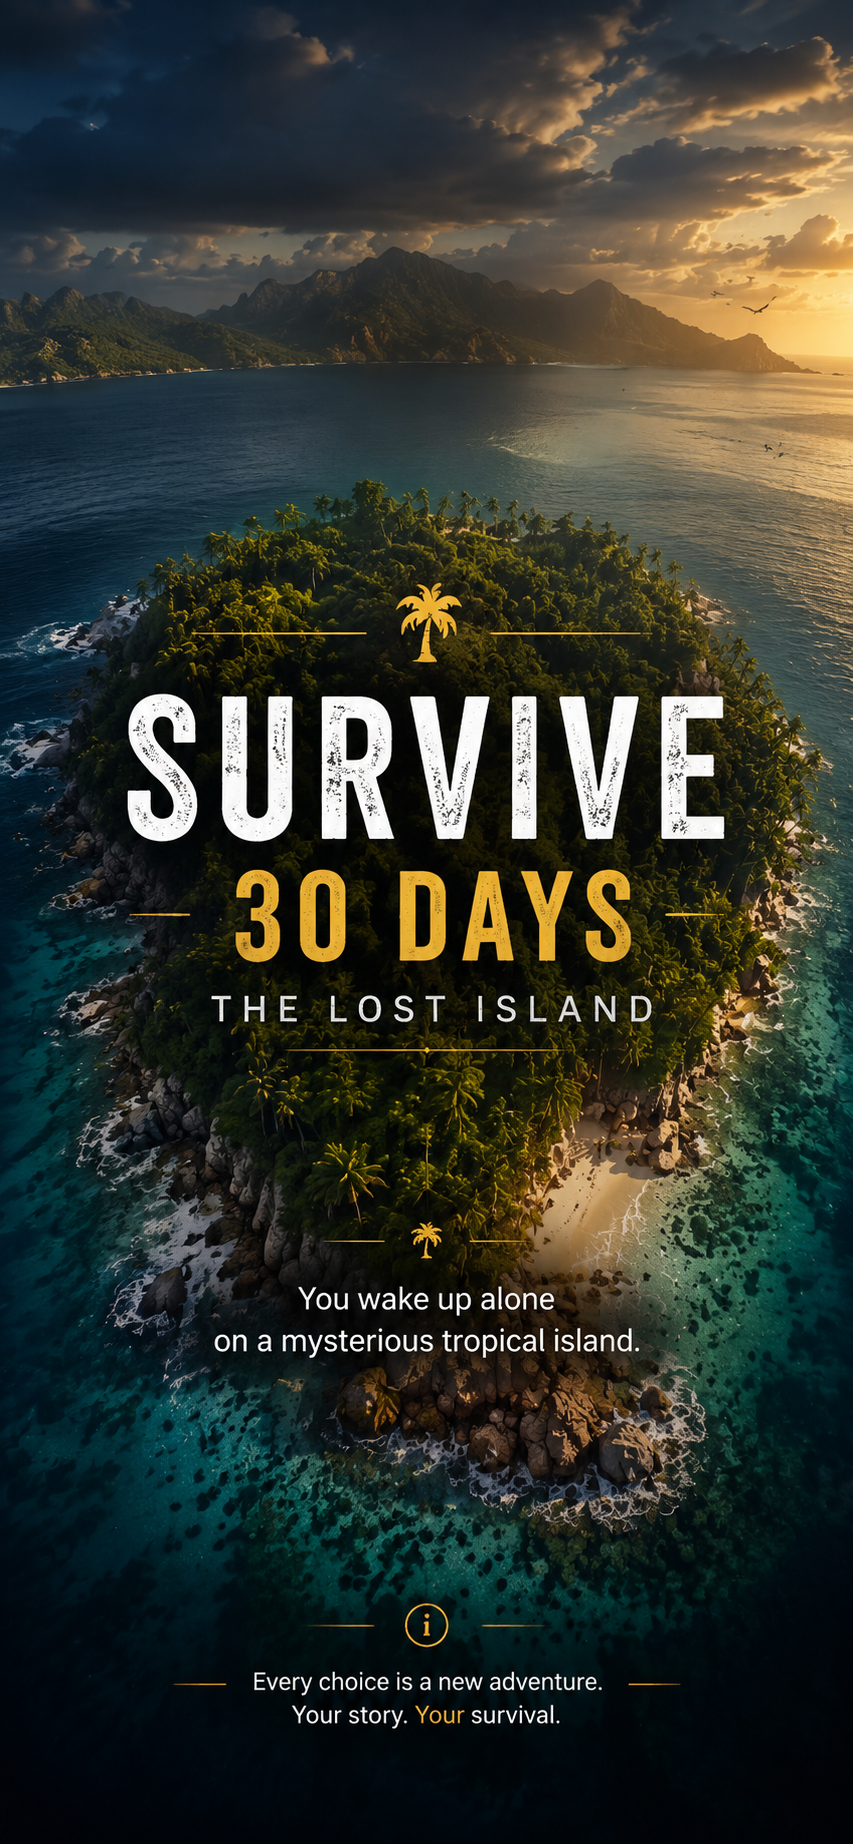
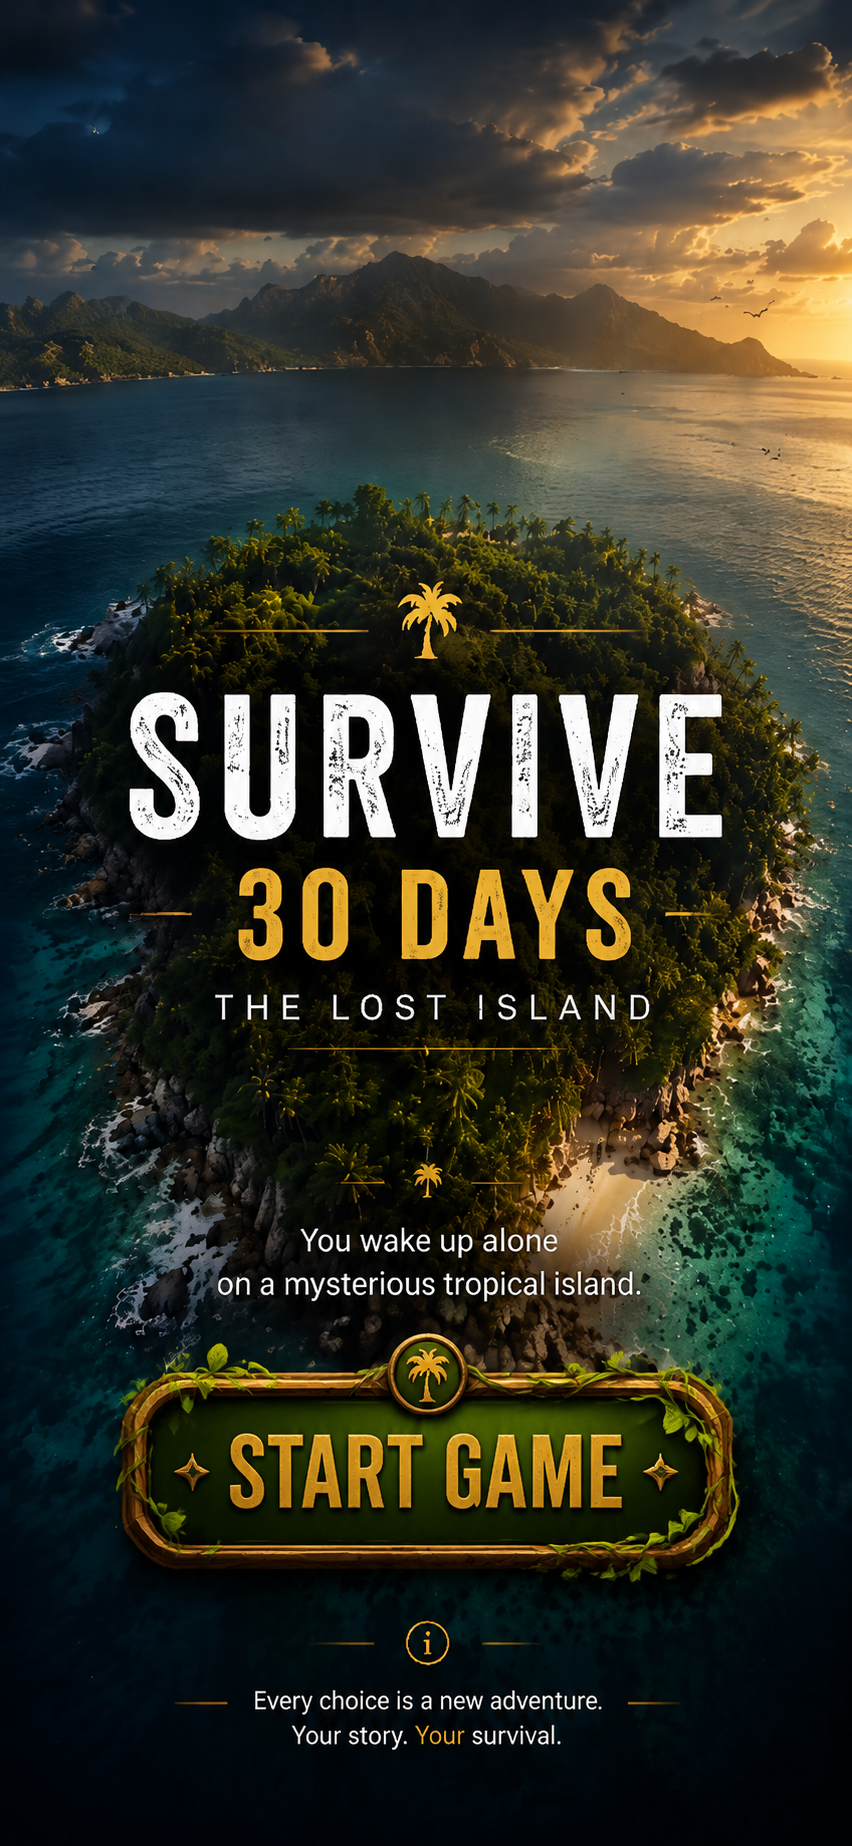
7v

diff --git a/index.html b/index.html
@@ -181,43 +181,45 @@ SCREEN 4
 SCREEN 1
 
 
+START SCREEN
+
+
+Теперь первый экран содержит
+только фоновую картинку.
+
+
+Вся надпись:
+
+SURVIVE
+30 DAYS
 START GAME
 
 
-ПЕРВЫЙ ЭКРАН ИГРЫ
-
-
-
-Фоновая картинка:
+уже находится внутри изображения:
 
 
 graphics/fon1.png
 
 
 
-Создаётся через:
+HTML больше не рисует текст.
 
 
-style.css
-
-
-
-На экране:
-
-
-- название игры;
-- описание;
-- кнопка START GAME.
+Невидимая кнопка находится
+поверх нарисованной кнопки START GAME.
 
 
 
-После нажатия кнопки
-будет переход:
+Нажатие:
 
 
-START GAME
+START GAME на картинке
+
 
 ↓
+
+SCREEN 2
+
 
 CHOOSE YOUR CHARACTER
 
@@ -226,133 +228,44 @@ CHOOSE YOUR CHARACTER
 =================================================
 -->
 
-
-
 <section
 
-
 class="start-screen"
-
 
 id="start-screen">
 
 
 
-
-
-
 <!--
 
-Главный заголовок игры.
+Невидимая кнопка.
 
 
-Текст видит игрок.
+Игрок её не видит.
 
 
--->
-
-<h1>
-
-
-SURVIVE
+Она расположена поверх
+нарисованной кнопки START GAME.
 
 
-<br>
-
-
-30 DAYS
-
-
-</h1>
-
-
-
-
-
-
-
-<!--
-
-Описание игры.
-
-
--->
-
-<p>
-
-
-You wake up alone
-on a mysterious tropical island.
-
-
-</p>
-
-
-
-
-
-
-
-
-<!--
-
-Главная кнопка начала игры.
-
-
-Для игрока:
-
-
-START GAME
-
-
-
-Для программы:
-
-
-id="start-button"
-
-
-
-game.js найдёт эту кнопку
-по этому имени.
-
-
-Не менять:
-
-
-id="start-button"
+ID нужен для game.js.
 
 
 
 -->
-
-
 
 <button
 
-
-class="start-button"
-
+class="image-start-button"
 
 id="start-button">
-
-
-START GAME
 
 
 </button>
 
 
 
-
-
 </section>
-
-
-
-
-
-
 
 
 

diff --git a/style.css b/style.css
@@ -179,9 +179,13 @@ graphics/fon1.png
 
     height:100%;
 
+     position:relative;
+
 
 
     background-image:url("graphics/fon1.png");
+
+   
 
 
 
@@ -355,49 +359,41 @@ margin-top
 */
 
 
-.start-button {
+.image-start-button {
+
+    position:absolute;
+
+    /*
+    Координаты кнопки внутри картинки.
+
+    Меняем эти значения,
+    чтобы попасть точно на нарисованную кнопку START GAME.
+
+    */
+
+    left:50%;
+
+    top:72%;
 
 
-    width:320px;
+    transform:translate(-50%,-50%);
 
 
+    width:70%;
 
-    min-height:64px;
-
-
-
-    margin-top:150px;
+    height:10%;
 
 
+    background:transparent;
 
     border:none;
 
+    cursor:pointer;
 
 
-    border-radius:18px;
-
-
-
-    background:
-
-    rgba(46,125,50,0.95);
-
-
-
-    color:white;
-
-
-
-    font-size:22px;
-
-
-
-    font-weight:bold;
-
-
+    z-index:5;
 
 }
-
 
 
 
@@ -437,6 +433,8 @@ graphics/fon2.png
 
     height:100%;
 
+
+    position:relative;
 
 
     display:none;
@@ -798,31 +796,34 @@ girl start.png
 .intro-character-screen {
 
 
-    width:100%;
+width:100%;
 
 
-    height:100%;
+height:100%;
 
 
-    display:none;
+display:none;
 
 
-    background:black;
+position:absolute;
 
 
-    align-items:center;
+top:0;
 
 
-    justify-content:center;
+left:0;
 
 
-    position:absolute;
+z-index:10;
 
 
-    top:0;
+background:black;
 
 
-    left:0;
+align-items:center;
+
+
+justify-content:center;
 
 
 }
@@ -843,7 +844,7 @@ girl start.png
 
 object-fit:
 
-contain
+cover
 
 
 означает:
@@ -865,7 +866,7 @@ contain
     height:100%;
 
 
-    object-fit:contain;
+    object-fit:cover;
 
 
 }
